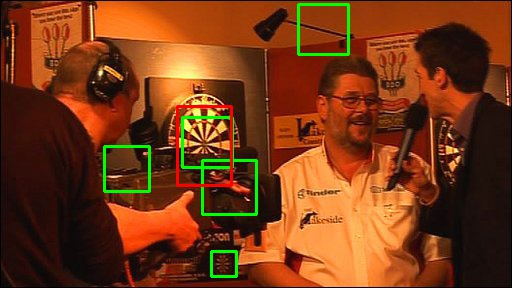
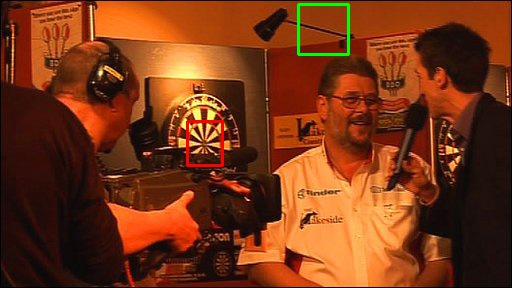
Added in smaller detection boxes

Changed region(s): [[0.3438, 0.3438, 0.5312, 0.7812], [0.1875, 0.5, 0.3125, 0.6875], [0.4062, 0.8438, 0.4688, 0.9688]]

diff --git a/Viola_Hough.py b/Viola_Hough.py
@@ -5,9 +5,10 @@ import matplotlib as plt
 from pprint import pprint
 
 def threshold(a, t):
-    a[a > t] = 255
-    a[a <= t] = 0
-    return a
+    b = np.copy(a)
+    b[b > t] = 255
+    b[b <= t] = 0
+    return b
 
 def convolve(image,	kernel):
     (iH, iW) = image.shape[:2]
@@ -74,7 +75,11 @@ def hough(image_name, image_type, rmin, rmax, rinc, ainc, t1, t2, t3):
     circle_image = np.sum(circle_space, axis=0)
     circle_image = threshold(circle_image, 1)
 
-    line_space = threshold(line_space, t3)
+    line_space_prime = threshold(line_space, t3)
+    while (np.size(np.nonzero(line_space_prime)) > 250):
+        t3 += 1
+        line_space_prime = threshold(line_space, t3)
+    line_space = line_space_prime
     dn, an = np.nonzero(line_space)
     for a1 in range(len(an)-1):
         for a2 in range(a1+1, len(an)):
@@ -88,6 +93,7 @@ def hough(image_name, image_type, rmin, rmax, rinc, ainc, t1, t2, t3):
                             x, y = int(np.floor(x+width//2)), int(np.floor(y+height//2))
                             if (y > 0 and y < height and x > 0 and x < width):
                                 line_image[y, x] = 255
+
     det_circles = []
     det_lines = []
     for y in range(height):
@@ -155,7 +161,25 @@ def get_objects(image_number):
     img13_darts = np.array([[275, 122, 127, 127]])
     img14_darts = np.array([[123, 103, 121, 121], [989, 98, 120, 120]])
     img15_darts = np.array([[155, 57, 128, 137]])
-
+    ''' 
+    #Smaller ones!
+    img0_darts = np.array([[471, 49, 93, 109]])
+    img1_darts = np.array([[234, 168, 119, 119]])
+    img2_darts = np.array([[120, 115, 53, 53]])
+    img3_darts = np.array([[336, 162, 41, 43]])
+    img4_darts = np.array([[225, 135, 127, 127]])
+    img5_darts = np.array([[454, 162, 64, 66]])
+    img6_darts = np.array([[224, 130, 37, 37]])
+    img7_darts = np.array([[283, 199, 88, 88]])
+    img8_darts = np.array([[79, 269, 36, 54], [866, 242, 68, 72]])
+    img9_darts = np.array([[248, 92, 143, 143]])
+    img10_darts = np.array([[111, 125, 57, 67], [596, 145, 33, 51], [924, 162, 21, 41]])
+    img11_darts = np.array([[187, 121, 35, 44]])
+    img12_darts = np.array([[169, 104, 35, 84]])
+    img13_darts = np.array([[299, 146, 80, 80]])
+    img14_darts = np.array([[145, 126, 76, 76], [1012, 120, 75, 75]])
+    img15_darts = np.array([[182, 83, 79, 84]])
+    '''
     if (image_number == 0): return img0_darts
     if (image_number == 1): return img1_darts
     if (image_number == 2): return img2_darts
@@ -189,8 +213,8 @@ def viola_jones(image_name, nmin, t4):
     draw(image, tru, (0, 255, 0), 2)
     return det, tru
 
-def viola_hough(image_name, rmin, rmax, rinc, ainc, nmin, t1, t2, t3, t4, t5): 
-    #t1, t2, t3 are hough thresholds, t4 is viola_jones threshold, t5 is viola_hough threshold
+def viola_hough(image_name, rmin, rmax, rinc, ainc, nmin, t1, t2, t3, t4, t5, t6): 
+    #t1, t2, t3 are hough thresholds, t4 is viola_jones threshold, t5, t6 are viola_hough thresholds
     image = cv.imread(image_name)
     image_number = int(image_name[5:-4])
     height, width = image.shape[:2]
@@ -199,22 +223,21 @@ def viola_hough(image_name, rmin, rmax, rinc, ainc, nmin, t1, t2, t3, t4, t5):
     
     det_combo = []
     for (x1, y1, x2, y2) in det_objects:
-        votes = 0
+        circle_votes = 0
+        line_votes = 0
         for (y, x) in det_circles:
             if (y >= y1 and y <= y2 and x >= x1 and x <= x2):
-                votes += 1
+                circle_votes += 1
         for (y, x) in det_lines:
             if (y >= y1 and y <= y2 and x >= x1 and x <= x2):
-                votes += 1
-        if (votes > t5):
+                line_votes += 1
+        if (circle_votes > t5 or line_votes > t6):
             det_combo.append([x1, y1, x2, y2])
     det_combo = np.asarray(det_combo)
     
     draw(image, det_combo, (0, 255,  0), 2)
     draw(image, tru_objects, (0, 0, 255), 2)
     cv.imwrite("viola_hough_output"+str(image_number)+".jpg", image)
-    cv.imshow("Combo", image)
-    cv.waitKey(0)
 
-image_name = input("Please enter image name: ")
-viola_hough(image_name, 15, 35, 1, 2, 3, 200, 10, 20, 0.5, 40)
+image_name = "input"+input("Please enter image number: ")+".jpg"
+viola_hough(image_name, 15, 35, 2, 2, 3, 200, 10, 20, 0.5, 40, 20) 

diff --git a/Viola_Jones.py b/Viola_Jones.py
@@ -39,8 +39,10 @@ def evaluate(tru, det, threshold):
     except: F1 = 0.0
 
     print("TPR = " + str(TPR))
-    print("PPV = " + str(PPV))
+    #print("PPV = " + str(PPV))
     print("F1  = " + str(F1))
+
+    return TPR, F1
 
 def get_objects(image_type, image_number):
     img0_darts = np.array([[442, 16, 153, 175]])
@@ -59,7 +61,25 @@ def get_objects(image_type, image_number):
     img13_darts = np.array([[275, 122, 127, 127]])
     img14_darts = np.array([[123, 103, 121, 121], [989, 98, 120, 120]])
     img15_darts = np.array([[155, 57, 128, 137]])
-
+    ''' 
+    #Smaller ones!
+    img0_darts = np.array([[471, 49, 93, 109]])
+    img1_darts = np.array([[234, 168, 119, 119]])
+    img2_darts = np.array([[120, 115, 53, 53]])
+    img3_darts = np.array([[336, 162, 41, 43]])
+    img4_darts = np.array([[225, 135, 127, 127]])
+    img5_darts = np.array([[454, 162, 64, 66]])
+    img6_darts = np.array([[224, 130, 37, 37]])
+    img7_darts = np.array([[283, 199, 88, 88]])
+    img8_darts = np.array([[79, 269, 36, 54], [866, 242, 68, 72]])
+    img9_darts = np.array([[248, 92, 143, 143]])
+    img10_darts = np.array([[111, 125, 57, 67], [596, 145, 33, 51], [924, 162, 21, 41]])
+    img11_darts = np.array([[187, 121, 35, 44]])
+    img12_darts = np.array([[169, 104, 35, 84]])
+    img13_darts = np.array([[299, 146, 80, 80]])
+    img14_darts = np.array([[145, 126, 76, 76], [1012, 120, 75, 75]])
+    img15_darts = np.array([[182, 83, 79, 84]])
+    '''
     img4_faces = np.array([[331, 103, 157, 165]])
     img5_faces = np.array([[59, 139, 65, 64], [51, 250, 65, 69], [192, 212, 57, 72], [242, 167, 66, 66], [289, 238, 56, 74], [375, 192, 68, 58], [426, 232, 58, 71], [514, 176, 65, 66], [555, 240, 69, 76], [646, 186, 63, 64], [681, 244, 52, 68]])
     img13_faces = np.array([[420, 131, 118, 128]])
@@ -100,20 +120,29 @@ def viola_jones(image_name, image_type, nmin, threshold):
     det = np.array([[x, y, w+x, h+y] for (x, y, w, h) in det])
     tru = get_objects(image_type, image_number)
     tru = np.array([[x, y, w+x, h+y] for (x, y, w, h) in tru])
-    evaluate(tru, det, threshold)
+    print("")
+    print(str(image_number))
+    TPR, F1 = evaluate(tru, det, threshold)
 
     draw(image, det, (0, 255, 0), 2)
     draw(image, tru, (0, 0, 255), 2)
     cv.imwrite("viola_jones_"+image_type+"_output"+str(image_number)+".jpg", image)
-
-image_name = input("Please enter image name: ")
+    return TPR, F1
+'''
+image_name = "input"+input("Please enter image number: ")+".jpg"
 image_type = input("Please enter image type: ")
 viola_jones(image_name, image_type, 3, 0.5)
 '''
+#Remove after report
+T = []
+F = []
 for n in range(16):
     image_name = "input"+str(n)+".jpg"
-    viola_jones(image_name, "darts", 3, 0.5)
-
+    tp, f1 = viola_jones(image_name, "darts", 8, 0.4)
+    T.append(tp)
+    F.append(f1)
+print(np.mean(T), np.mean(F))
+'''
 i = np.array([4, 5, 13, 14, 15])
 for n in i:
     image_name = "input"+str(n)+".jpg"

diff --git a/Hough.py b/Hough.py
@@ -5,9 +5,10 @@ import matplotlib as plt
 from pprint import pprint
 
 def threshold(a, t):
-    a[a > t] = 255
-    a[a <= t] = 0
-    return a
+    b = np.copy(a)
+    b[b > t] = 255
+    b[b <= t] = 0
+    return b
 
 def convolve(image,	kernel):
     (iH, iW) = image.shape[:2]
@@ -71,7 +72,11 @@ def hough(image_name, image_type, rmin, rmax, rinc, ainc, t1, t2, t3):
     circle_image = np.sum(circle_space, axis=0)
     circle_image = threshold(circle_image, 1)
 
-    line_space = threshold(line_space, t3)
+    line_space_prime = threshold(line_space, t3)
+    while (np.size(np.nonzero(line_space_prime)) > 250):
+        t3 += 1
+        line_space_prime = threshold(line_space, t3)
+    line_space = line_space_prime
     dn, an = np.nonzero(line_space)
     for a1 in range(len(an)-1):
         for a2 in range(a1+1, len(an)):
@@ -90,18 +95,13 @@ def hough(image_name, image_type, rmin, rmax, rinc, ainc, t1, t2, t3):
         cv.imwrite("hough_"+str(image_type)+"_output"+str(image_number)+".jpg", circle_image)
     elif (image_type == "lines"):
         cv.imwrite("hough_"+str(image_type)+"_output"+str(image_number)+".jpg", line_image)
-
-    #Notes for report, made the space smaller by centering the origin, used direction image
-    #didn't add horizontal or vertical lines, didn't check for intersections between similar angle lines
-
-    #TOO FIX - TAKES REALLY LONG ON INPUT9!
-
-image_name = input("Please enter image name: ")
+    
+image_name = "input"+input("Please enter image number: ")+".jpg"
 image_type = input("Please enter image type: ")
-hough(image_name, image_type, 15, 35, 1, 2, 200, 10, 20) 
+hough(image_name, image_type, 15, 35, 2, 2, 200, 10, 20) 
 '''
 for n in range(16):
     image_name = "input"+str(n)+".jpg"
-    #hough(image_name, "circles", 15, 35, 1, 2, 200, 10, 20)
-    hough(image_name, "lines", 15, 35, 1, 2, 200, 10, 20)
+    hough(image_name, "circles", 15, 35, 2, 2, 200, 10, 20)
+    hough(image_name, "lines", 15, 35, 2, 2, 200, 10, 20)
 '''
